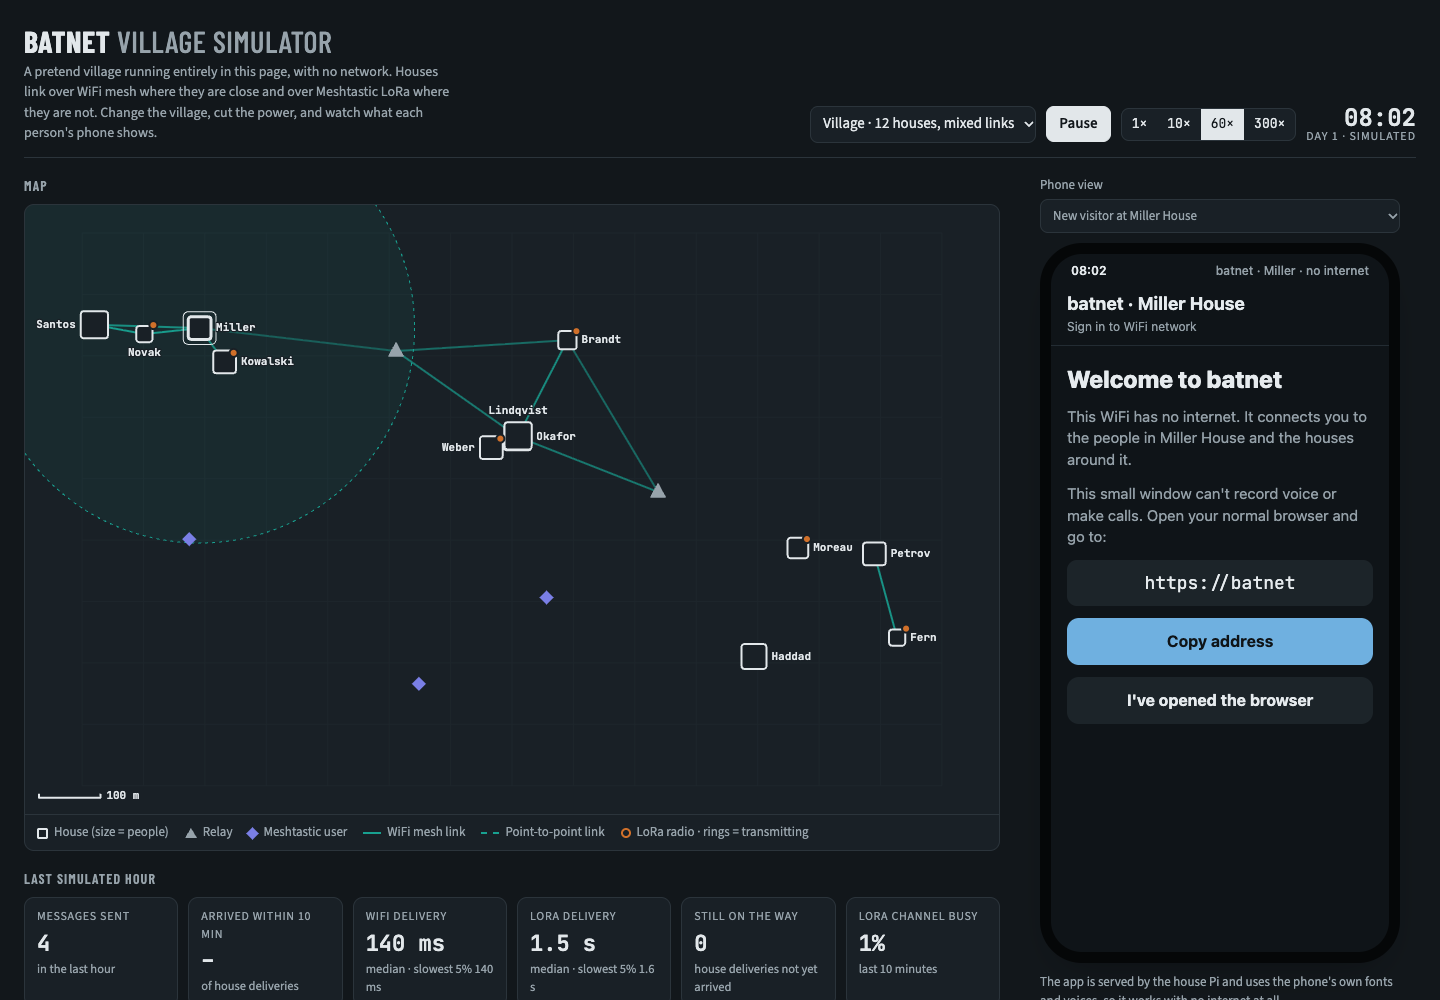
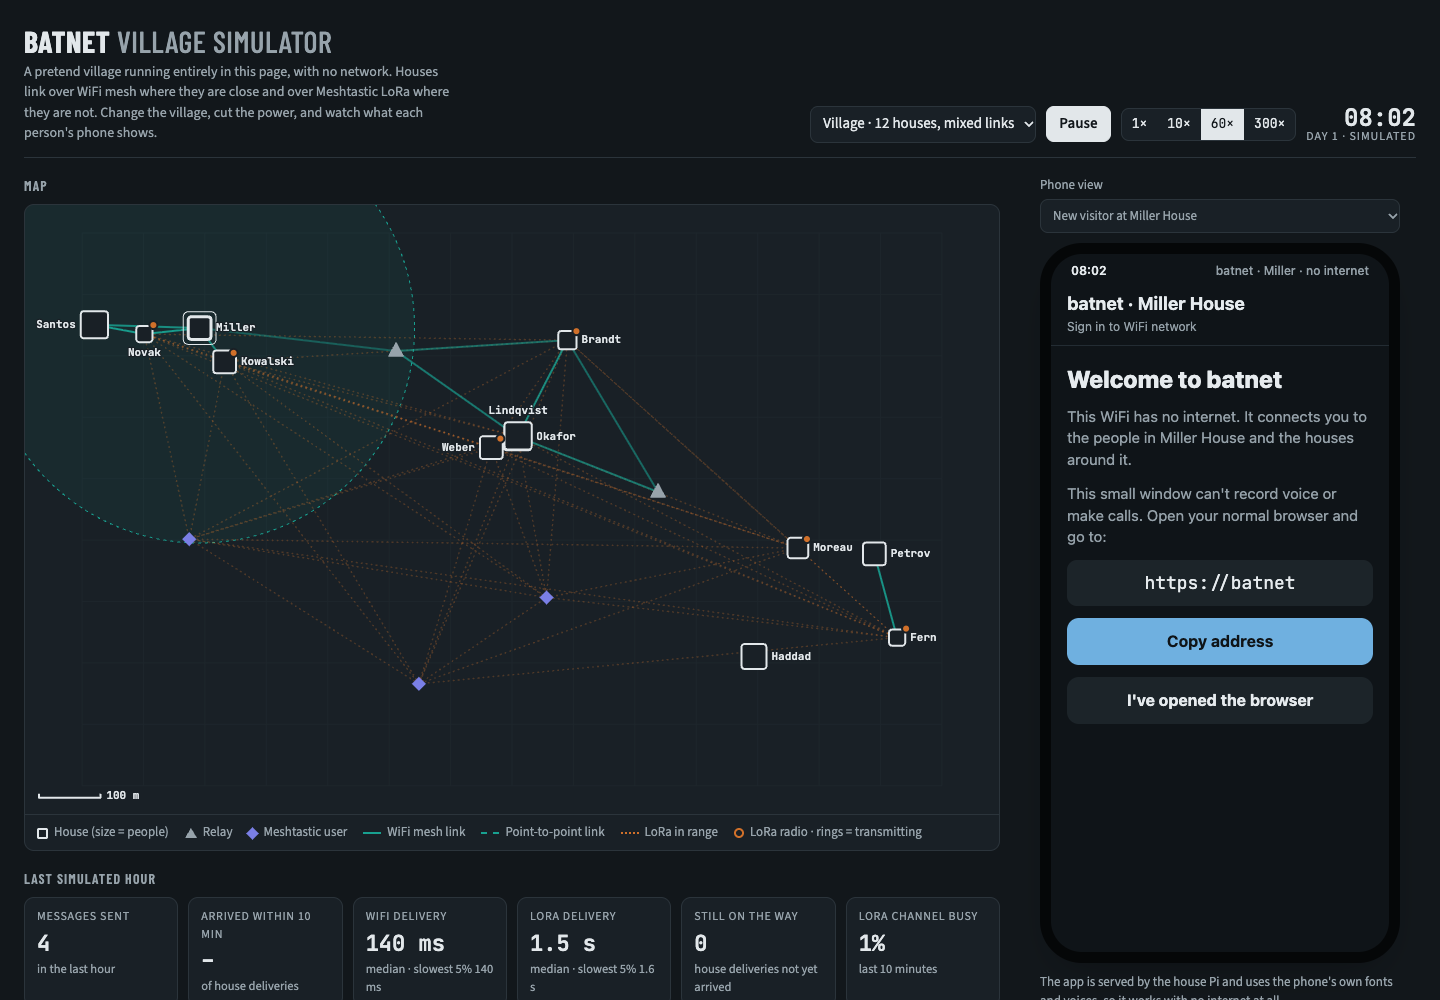
Simulator: show which LoRa radios hear each other, Meshtastic users included

diff --git a/prototypes/village-sim/index.html b/prototypes/village-sim/index.html
@@ -80,6 +80,7 @@ select.field, input.field { border: 1px solid var(--rule); background: var(--pan
 .maplegend i { display: inline-block; vertical-align: middle; margin-right: 6px; }
 .lg-wifi { width: 18px; height: 0; border-top: 2px solid var(--wifi); }
 .lg-p2p { width: 18px; height: 0; border-top: 2px dashed var(--wifi); }
+.lg-lorareach { width: 18px; height: 0; border-top: 2px dotted var(--lora); }
 .lg-lora { width: 10px; height: 10px; border-radius: 50%; border: 2px solid var(--lora); }
 .lg-house { width: 11px; height: 11px; border: 2px solid var(--ink); border-radius: 2px; }
 .lg-relay { width: 0; height: 0; border-left: 6px solid transparent; border-right: 6px solid transparent; border-bottom: 10px solid var(--muted); }
@@ -223,6 +224,7 @@ details.assume li { margin: 4px 0; color: var(--muted); font-size: 13.5px; max-w
           <span><i class="lg-mesh"></i>Meshtastic user</span>
           <span><i class="lg-wifi"></i>WiFi mesh link</span>
           <span><i class="lg-p2p"></i>Point-to-point link</span>
+          <span><i class="lg-lorareach"></i>LoRa in range</span>
           <span><i class="lg-lora"></i>LoRa radio · rings = transmitting</span>
         </div>
       </div>
@@ -394,6 +396,18 @@ function drawMap() {
     const r = sel.wifi === 'builtin' ? PI[sel.pi].builtinRange : ({ dongle: 350, pole: 450, none: 0 })[sel.wifi];
     if (r) { const [x, y] = px(sel); ctx.beginPath(); ctx.arc(x, y, r * view.s, 0, Math.PI * 2); ctx.fillStyle = wifi + '14'; ctx.fill(); ctx.setLineDash([3, 4]); ctx.strokeStyle = wifi; ctx.lineWidth = 1; ctx.stroke(); ctx.setLineDash([]); }
   }
+  // LoRa radios that hear each other directly: faint dots, stronger for the selected node.
+  // Meshtastic users are on the same air, so they show here too.
+  const radios = S.nodes.filter((n) => n.lora && n.online), R = sim.preset().range;
+  ctx.setLineDash([1, 4]); ctx.lineCap = 'round'; ctx.strokeStyle = lora; ctx.lineWidth = 1.5;
+  for (let i = 0; i < radios.length; i++) for (let j = i + 1; j < radios.length; j++) {
+    const a = radios[i], b = radios[j];
+    if (Math.hypot(a.x - b.x, a.y - b.y) > R) continue;
+    const hot = a.id === selectedId || b.id === selectedId;
+    const [x1, y1] = px(a), [x2, y2] = px(b);
+    ctx.globalAlpha = hot ? 0.9 : 0.3; ctx.beginPath(); ctx.moveTo(x1, y1); ctx.lineTo(x2, y2); ctx.stroke();
+  }
+  ctx.setLineDash([]); ctx.lineCap = 'butt'; ctx.globalAlpha = 1;
   // links
   for (const l of S.links) {
     const [x1, y1] = px(l.a), [x2, y2] = px(l.b);
@@ -555,7 +569,7 @@ function renderInspector() {
   const el = $('#inspector');
   if (!n) { el.innerHTML = '<p class="eyebrow">Selected</p><p class="note">Click a house on the map.</p>'; return; }
   if (n.kind === 'mesh') {
-    el.innerHTML = `<p class="eyebrow">Selected</p><h3>${esc(n.name)}</h3><p class="meta">A neighbour's own Meshtastic radio, not part of batnet. It shows up in "Radios nearby" and posts on the public channel now and then.</p>`;
+    el.innerHTML = `<p class="eyebrow">Selected</p><h3>${esc(n.name)}</h3><p class="meta">A neighbour's own Meshtastic radio. It isn't running batnet, but it's on the same air: its posts on the public channel show up in batnet's "Neighbourhood (public)" group, and batnet's posts there show up on its phone. It also passes batnet's private messages along to radios it can reach, without being able to read them. Dotted lines show which radios it hears directly.</p>`;
     return;
   }
   const cl = clusterOf(n);
